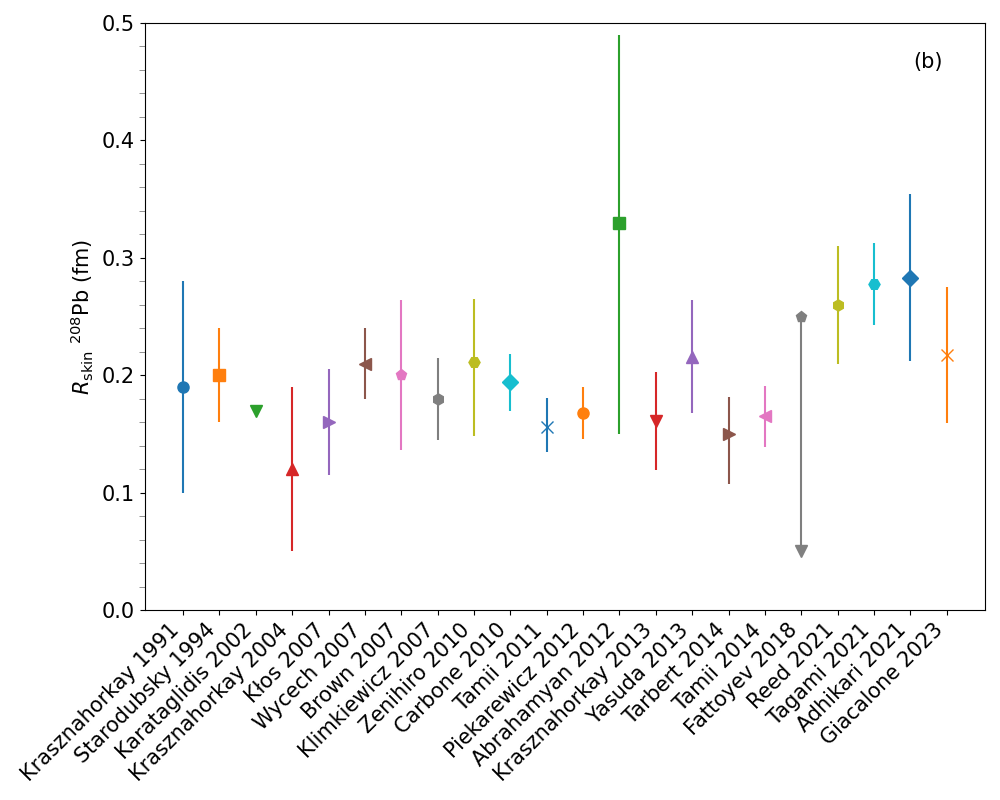
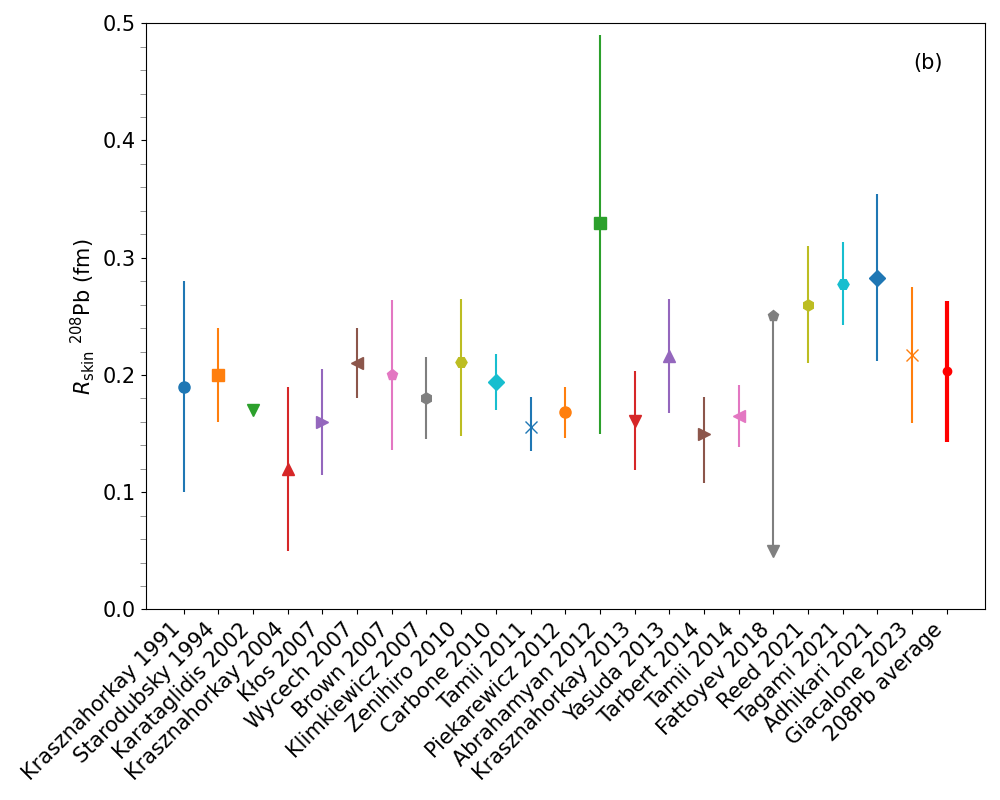
update

diff --git a/version1.0/nucleardatapy/nuc/setup_nskin_exp.py b/version1.0/nucleardatapy/nuc/setup_nskin_exp.py
@@ -109,7 +109,7 @@ class SetupNeutronSkinExp():
         self.note = None
         self.marker = None
         # 
-        if source.lower()=='48Ca':
+        if source.lower()=='48ca':
             if cal==1:
                 #: Attribute providing the full reference to the paper to be citted.
                 self.ref='J.C. Lombardi, R.N. Boyd, R. Arking, and A.B. Robbins, NPA 188, 103 (1972).'
@@ -254,7 +254,7 @@ class SetupNeutronSkinExp():
                 #: Attribute providing additional notes about the calculation.
                 self.note = "CREX."
                 self.marker = 'H'                                       
-        elif source.lower()=='208Pb':
+        elif source.lower()=='208pb':
             if cal==1:
                 #: Attribute providing the full reference to the paper to be citted.
                 self.ref='A. Krasznahorkay, J. Bacelar, J.A. Bordewijk, et al., PRL 66, 1287 (1991).'
@@ -526,16 +526,21 @@ class setupNeutronSkinAverage():
         self.latexCite = None
         self.ref = None
         self.label = source+' average'
-        self.note = 'compute the centroid and standard deviation from the cal. data.'
+        self.note = 'compute the centroid and standard deviation from the data.'
         #
-        cals = nskin_exp( source = source )
+        cals = nskin_exp_source( source = source )
         # print('cals:',cals)
         #
         # search for the boundary for the neutron skin:
         nsmin = 0.5; nsmax = 0.0;
         for cal in cals:
             nskin = nuda.SetupNeutronSkinExp( source = source, cal = cal )
-            #nskin.print_outputs( )
+            # nskin.print_outputs( )
+            # print(f"Valor de nskin_sig_do: {nskin.nskin_sig_do}")
+            if nskin.nskin_sig_do is None or nskin.nskin_sig_do >= 1000:
+               nskin.nskin_sig_do = 0
+            if nskin.nskin_sig_up is None or nskin.nskin_sig_up >= 1000:
+               nskin.nskin_sig_up = 0   
             nsdo = nskin.nskin - 0.5*nskin.nskin_sig_do
             nsup = nskin.nskin + 0.5*nskin.nskin_sig_up
             if nsdo < nsmin: nsmin = nsdo
@@ -586,16 +591,20 @@ class setupNeutronSkinAverage():
         #
     #
 
-def gauss( ax, nskin, sig_up, sig_do ):
+def gauss( ax, nskin, nskin_sig_up, nskin_sig_do ):
+    if nskin_sig_do is None or nskin_sig_do == 0 or nskin_sig_do >= 1000:
+        nskin_sig_do = 0.0001
+    if nskin_sig_up is None or nskin_sig_up == 0 or nskin_sig_up >= 1000:
+        nskin_sig_up = 0.0001
     fac = math.sqrt( 2*math.pi )
     gauss = []
     for x in ax:
         if x < nskin: 
-            z = ( x - nskin ) / sig_do
-            norm = sig_do * fac
+            z = ( x - nskin ) / nskin_sig_do
+            norm = nskin_sig_do * fac
         else:
-            z = ( x - nskin ) / sig_up
-            norm = sig_up * fac
+            z = ( x - nskin ) / nskin_sig_up
+            norm = nskin_sig_up * fac
         gauss.append( math.exp( -0.5*z**2 ) / norm )
     return gauss
 

diff --git a/version1.0/nucleardatapy_samples/plots/plot_nuc_setupNeutronSkinTheo.py b/version1.0/nucleardatapy_samples/plots/plot_nuc_setupNeutronSkinTheo.py
@@ -91,7 +91,6 @@ def plot_neutron_skin_for_each_source_and_param():
             print(f"Theoretical positions for {source}: {xtheo}")
 
         fig, ax = plt.subplots(figsize=(10, 8))
-
         for i, (x, y, err_down, err_up) in enumerate(zip(xexp, rskin_values, error_lower, error_upper)):
             adjusted_err_down = min(err_down, 0.2)
             adjusted_err_up = min(err_up, 0.2)
@@ -101,10 +100,11 @@ def plot_neutron_skin_for_each_source_and_param():
             if err_up >= 1000:
                 ax.plot([x], [y + adjusted_err_up], marker="^", color="black", markersize=8)
 
-               nsav = nuda.nuc.setupNeutronSkinAverage(source=source)
+        nsav = nuda.nuc.setupNeutronSkinAverage(source=source)
         if nsav.nskin_cen is not None:
             ax.errorbar(len(labels), nsav.nskin_cen, yerr=nsav.sig_std, label=nsav.label, 
-                       color='red', marker='o', linestyle='solid', linewidth=3)           
+                       color='red', marker='o', markersize=12, linestyle='solid', linewidth=3)           
+        labels.append(nsav.label)
 
         for i, (x, y, marker, color) in enumerate(zip(xtheo, combined_rskin, combined_markers, combined_colors)):
             ax.plot(x, y, marker=marker, markersize=8, color=color)

diff --git a/version1.0/nucleardatapy_samples/plots/plot_nuc_setupNeutronSkinExp.py b/version1.0/nucleardatapy_samples/plots/plot_nuc_setupNeutronSkinExp.py
@@ -66,7 +66,7 @@ def plot_neutron_skin_for_each_source():
 
         # Plot configuration
         fig, ax = plt.subplots(figsize=(10, 8))
-        x_positions = range(len(labels))  # X-axis positions
+        x_positions = range(len(labels)+1)   # X-axis positions
 
         # Add each point to the plot with vertical error bars
         for i, (x, y, err_down, err_up, marker) in enumerate(zip(x_positions, rskin_values, error_lower, error_upper, markers)):
@@ -86,10 +86,11 @@ def plot_neutron_skin_for_each_source():
                 ax.plot([x], [y + adjusted_err_up], marker="^", color="grey", markersize=8)
 
         nsav = nuda.nuc.setupNeutronSkinAverage(source=source)
+        # print('label:', nsav.label)
         if nsav.nskin_cen is not None:
             ax.errorbar(len(labels), nsav.nskin_cen, yerr=nsav.sig_std, label=nsav.label, 
                        color='red', marker='o', linestyle='solid', linewidth=3)        
- 
+        labels.append(nsav.label)
         # Fixed y-axis configuration
         ax.set_ylim([0, 0.5])  # Fixed scale from 0 to 0.5 on the y-axis
 
